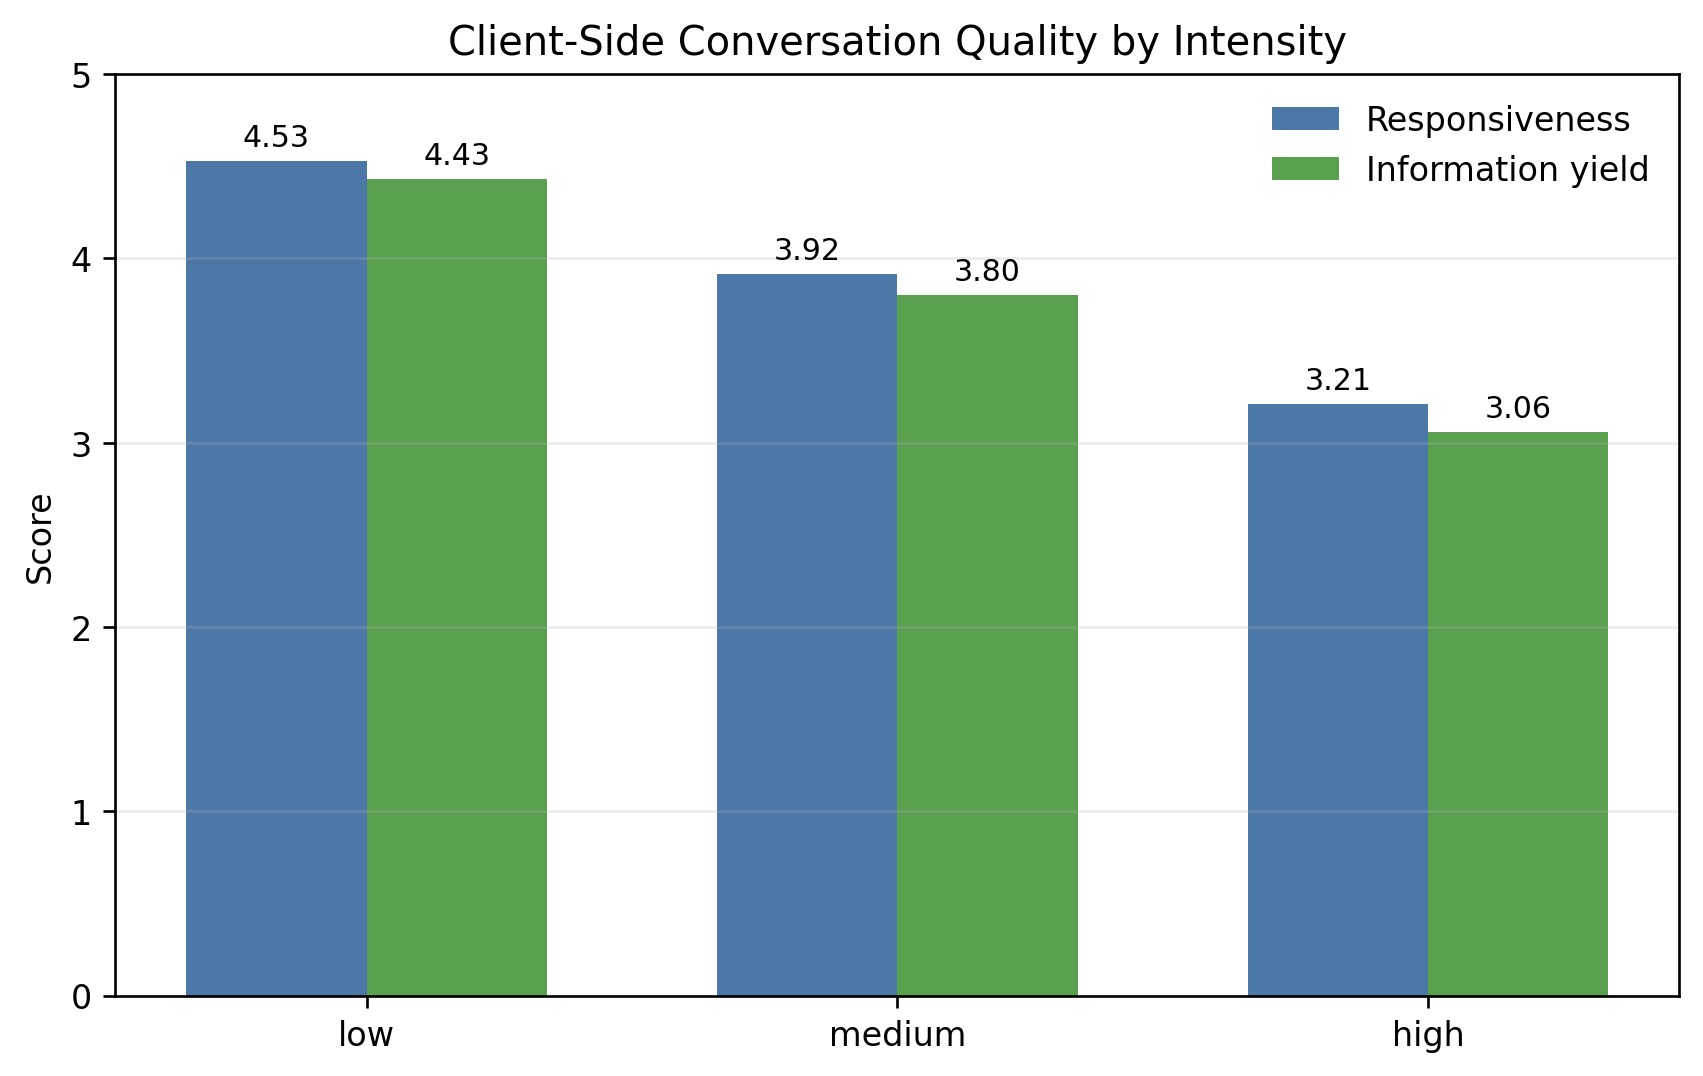
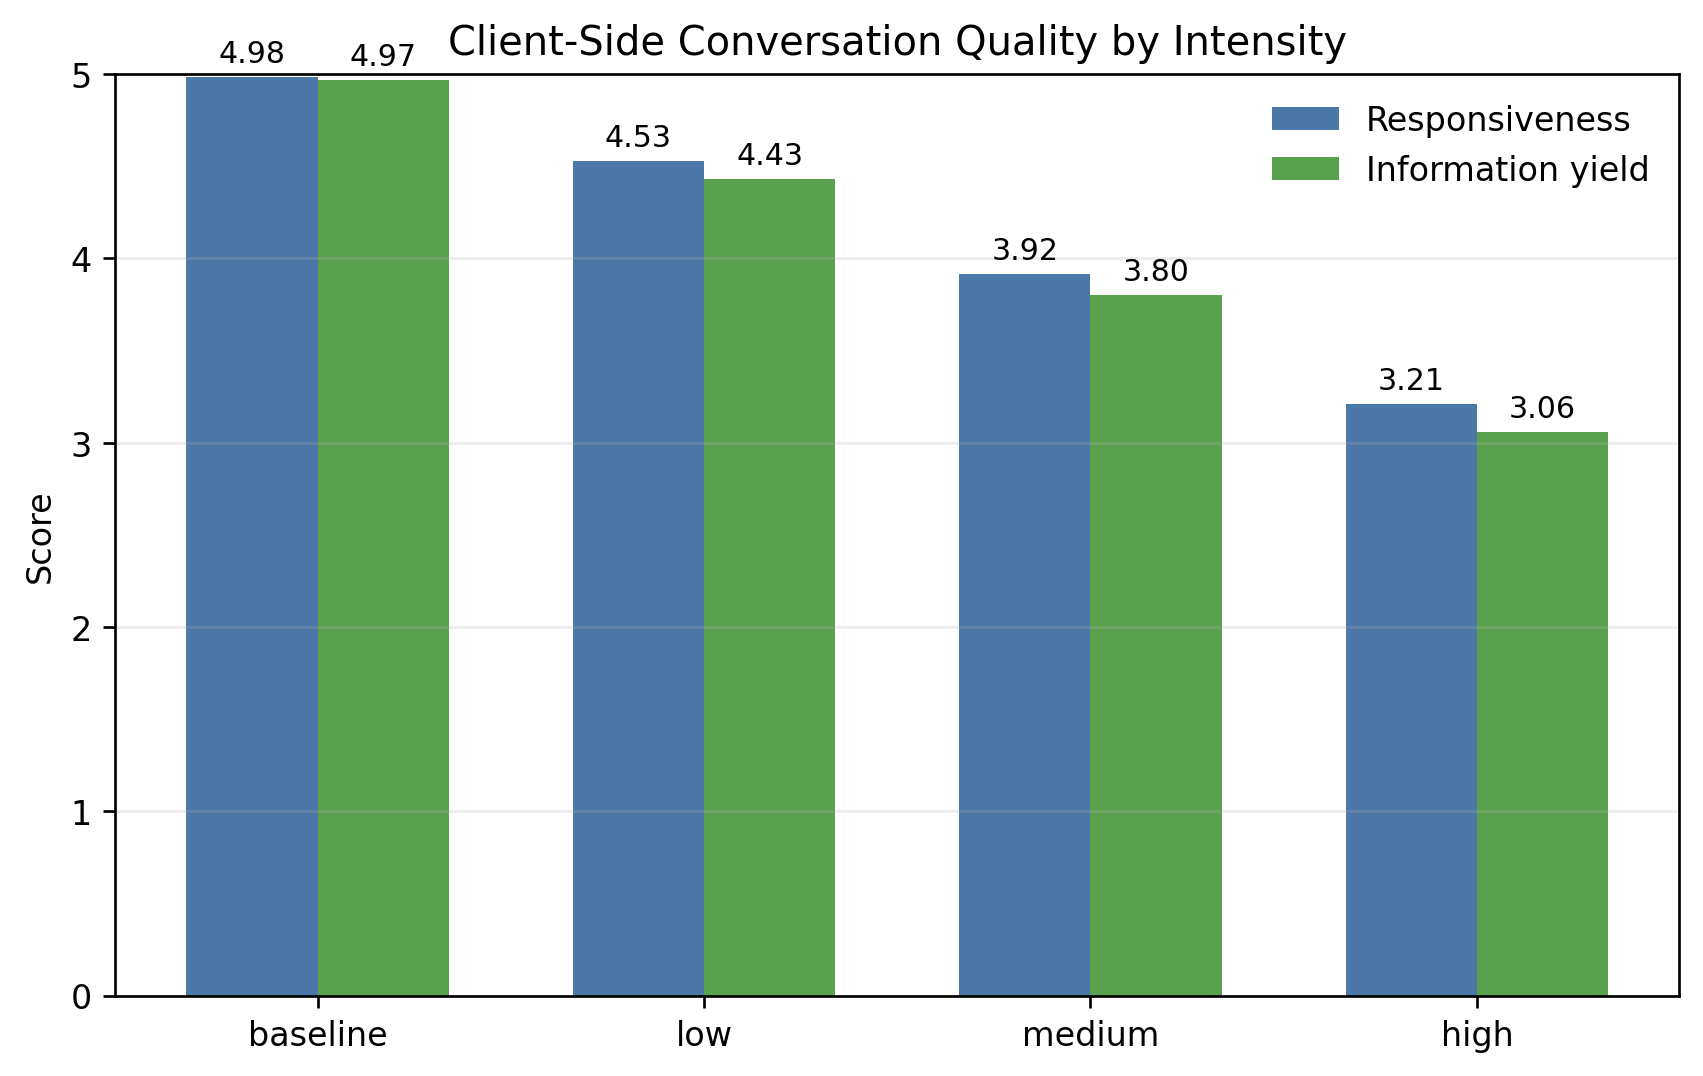
Updates from Overleaf

diff --git a/thesis-template/sections/results.tex b/thesis-template/sections/results.tex
@@ -3,7 +3,7 @@
 This section reports the results of the resistant-client simulation experiment.
 The results are organized around the research questions introduced in
 Section~\ref{s:experimental-setup}. I first check whether the resistance
-manipulation worked as intended. I then report conversation-quality results,
+manipulation worked as intended, then report conversation-quality results,
 diagnostic-quality results, the relation between conversation and diagnostic
 quality, and descriptive conversation characteristics.
 
@@ -11,7 +11,7 @@ quality, and descriptive conversation characteristics.
 
 Before interpreting the downstream evaluation scores, I first checked whether the generated patient behaviour reflected the intended resistance condition. This check is important because the experiment depends on the patient agent actually producing resistance when a resistant profile is activated.
 
-The post-hoc resistance-fidelity scores were high across all three intensity conditions. On a five-point scale, the mean fidelity score was 4.90 for low intensity, 4.89 for medium intensity, and 4.91 for high intensity. This suggests that the generated resistant turns usually matched the intended resistance subcategory rather than drifting into unrelated behaviour.
+The post-hoc resistance-fidelity scores were high across all three intensity conditions. On a five-point scale, the mean fidelity score was 4.90 for low intensity, 4.89 for medium intensity, and 4.91 for high intensity. This suggests that the generated resistant turns usually matched the intended resistance subcategory rather than drifting into an unrelated subcategory.
 
 The activation rate also increased with the intended intensity. Low-intensity conversations had resistance in 17.0\% of patient turns, medium-intensity conversations had resistance in 36.9\% of patient turns, and high-intensity conversations had resistance in 59.4\% of patient turns. This shows that the intensity mechanism successfully changed how often resistance appeared in the
 conversation.
@@ -34,7 +34,7 @@ High & 0.594 & 0.724 & 0.202 & 0.720 & 0.720 & 0.739 & 4.91 & 3.06 \\
 \end{table}
 
 The lower activation rate for reframing categories is expected. These categories use the truth map and are only activated when the questionnaire item asks about a
-symptom that is present in the clinical profile. In contrast, withholding, diverting, controlling, and contesting resistance can be expressed on a wider range of questionnaire items, so their activation rates are closer to the target range for each intensity condition.
+symptom that is present in the clinical profile. In contrast, withholding, diverting, controlling, and contesting resistance can be expressed on a larger number of questionnaire items, so their activation rates are closer to the target range for each intensity condition.
 
 The manipulation check also shows that increasing resistance intensity reduced the amount of usable information available in the dialogue. The overall
 information-yield score decreased from 4.43 in the low-intensity condition to 3.80 in the medium-intensity condition and 3.06 in the high-intensity condition.
@@ -134,7 +134,7 @@ conversation became less cooperative.
 \toprule
 Condition & Classification & Text match & Confidence & Justification & Certainty \\
 \midrule
-Baseline & 1.000 & 0.960 & 5.00 & 4.71 & -- \\
+Baseline & 1.000 & 0.960 & 5.00 & 4.71 & 4.24 \\
 Low & 0.973 & 0.950 & 4.97 & 4.72 & 3.76 \\
 Medium & 0.980 & 0.940 & 4.97 & 4.70 & 3.69 \\
 High & 0.957 & 0.930 & 4.96 & 4.39 & 3.49 \\

diff --git a/thesis-template/sections/experimental-setup.tex b/thesis-template/sections/experimental-setup.tex
@@ -132,7 +132,7 @@ long answers. They are interpreted together with information yield because answe
 \subsection{Implementation Details}
 The experiments are implemented by modifying the DSM5AgentFlow codebase. These modifications allow the patient agent to use resistance profiles, apply resistance through turn-level activation, save resistance metadata in the chat logs, and support post-hoc evaluation of client-side behavior. The main dialogue flow, questionnaire structure, and diagnostic pipeline are otherwise kept close to the original system so that cooperative and resistant-client conditions remain comparable.
 
-The final experiments use Gemini 2.5 Flash as the LLM backend for the assistant agent, the patient agent, and the diagnostic agent during dialogue generation. The original DSM5AgentFlow evaluator and the post-hoc client-side evaluator are also run with Gemini 2.5 Flash. Keeping the model fixed across cooperative and resistant conditions reduces the chance that observed differences are caused by different model backends rather than by the resistance condition. The exploratory stress-test conversations are generated with a separate script that forces activation and expression level settings without changing the main experimental generation procedure.
+The final experiments use Gemini 2.5 Flash as the LLM backend for the assistant agent, the patient agent, and the diagnostic agent during dialogue generation. The original DSM5AgentFlow evaluator and the post-hoc client-side evaluator are also run with Gemini 2.5 Flash. Keeping the model fixed across cooperative and resistant conditions reduces the chance that observed differences are caused by different model backends rather than by the resistance condition. The stress-test conversations are generated with a separate script that forces activation and expression level settings without changing the main experimental generation procedure.
 %%% Local Variables:
 %%% mode: latex
 %%% TeX-master: "../thesis"
